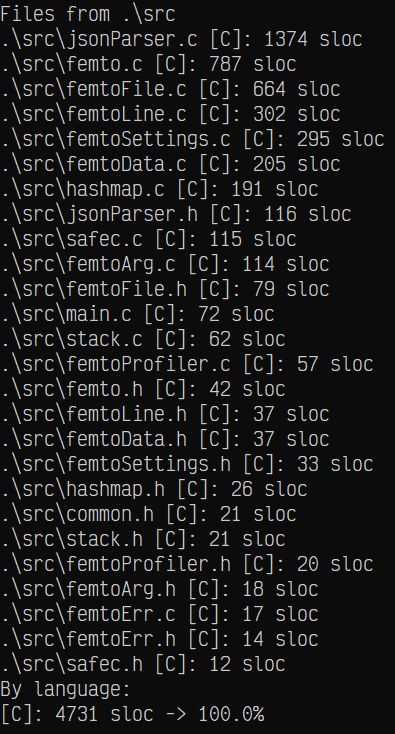
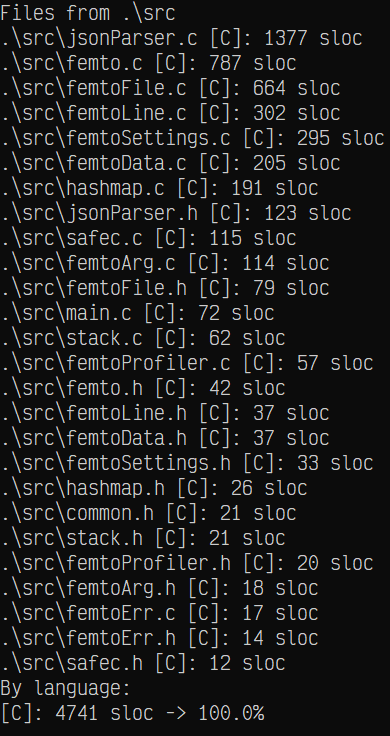
Update sloc

Changed region(s): [[0.0, 0.0, 0.9846, 0.9891], [0.4308, 0.9591, 0.6769, 0.9891]]

diff --git a/README.md b/README.md
@@ -10,7 +10,7 @@ It is a bigger more feature-rich version of my other console text editor [atto](
 It is also written in vanilla C + Win32 Console API - it's designed to be used solely on Microsoft Windows.
 It has been compiled with MinGW GCC.
 
-Currently, my other tool [slocWin32](https://github.com/makuke1234/slocWin32) reports ~4700 source code lines (excluding whitespace & comments):
+Currently, my other tool [slocWin32](https://github.com/makuke1234/slocWin32) reports ~4800 source code lines (excluding whitespace & comments):
 
 ![SLOC](./images/sloc.png)
 
